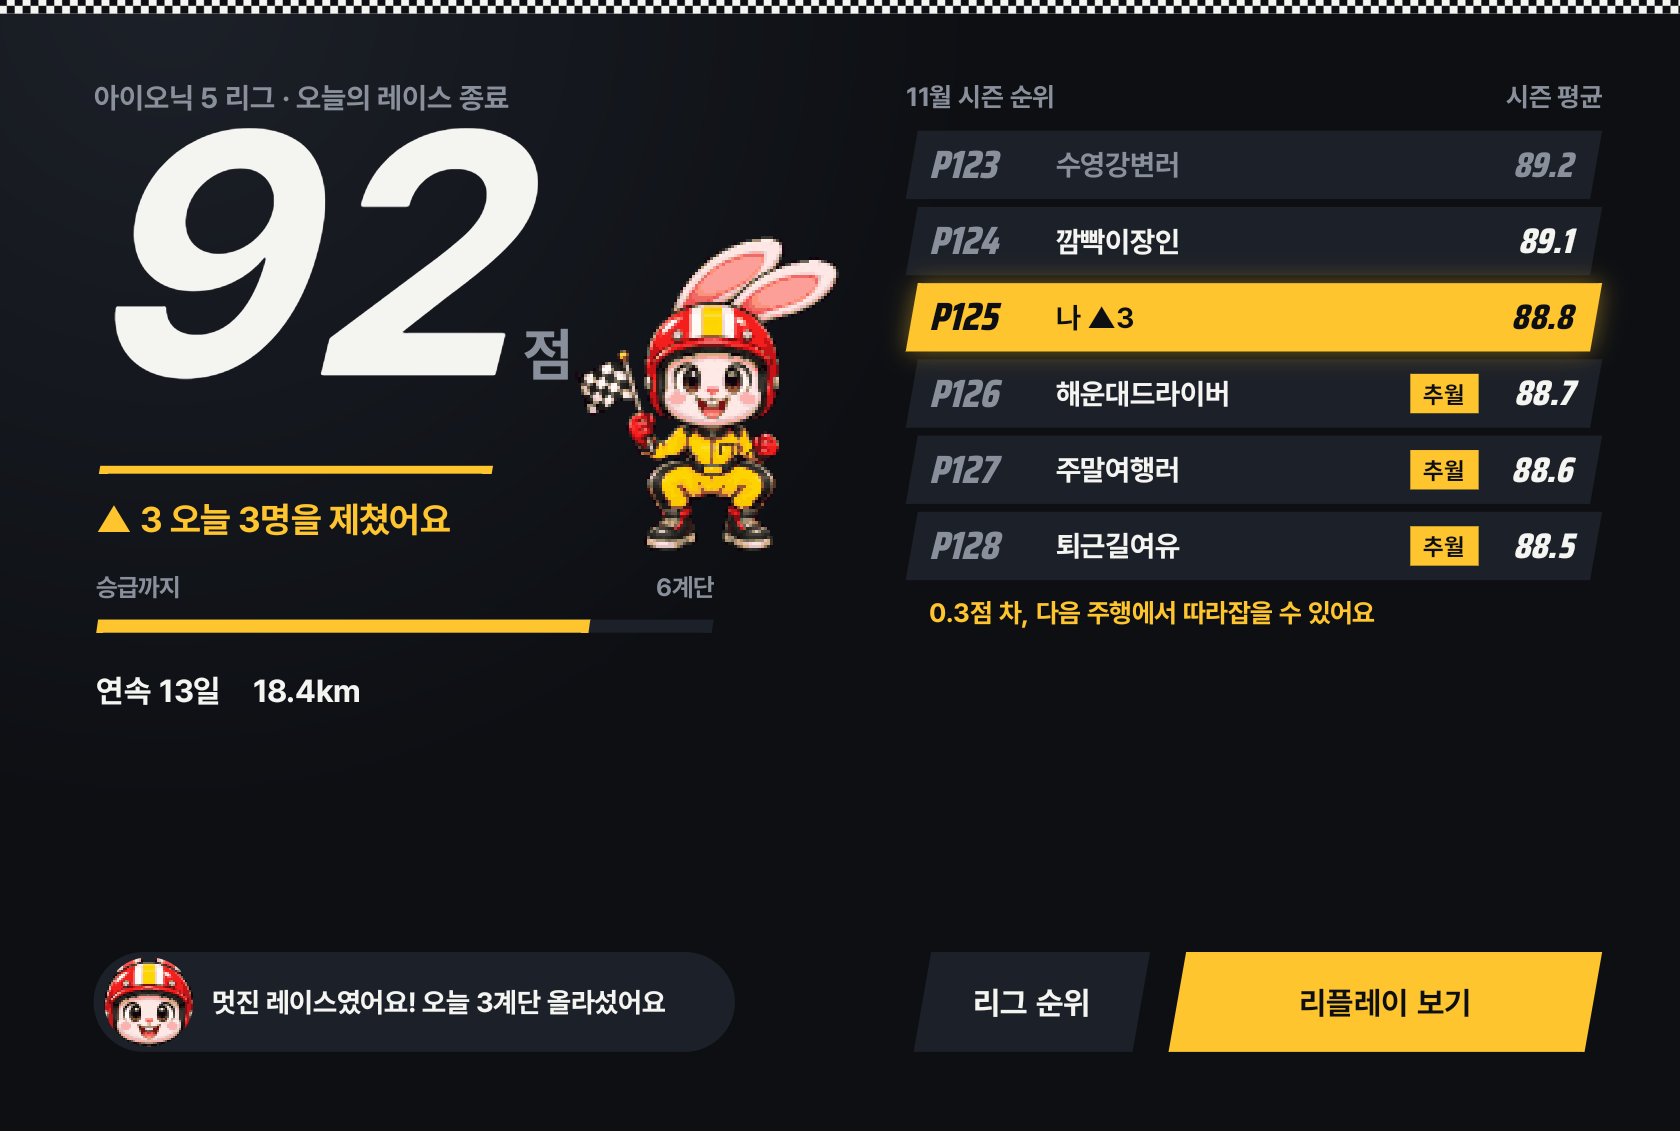
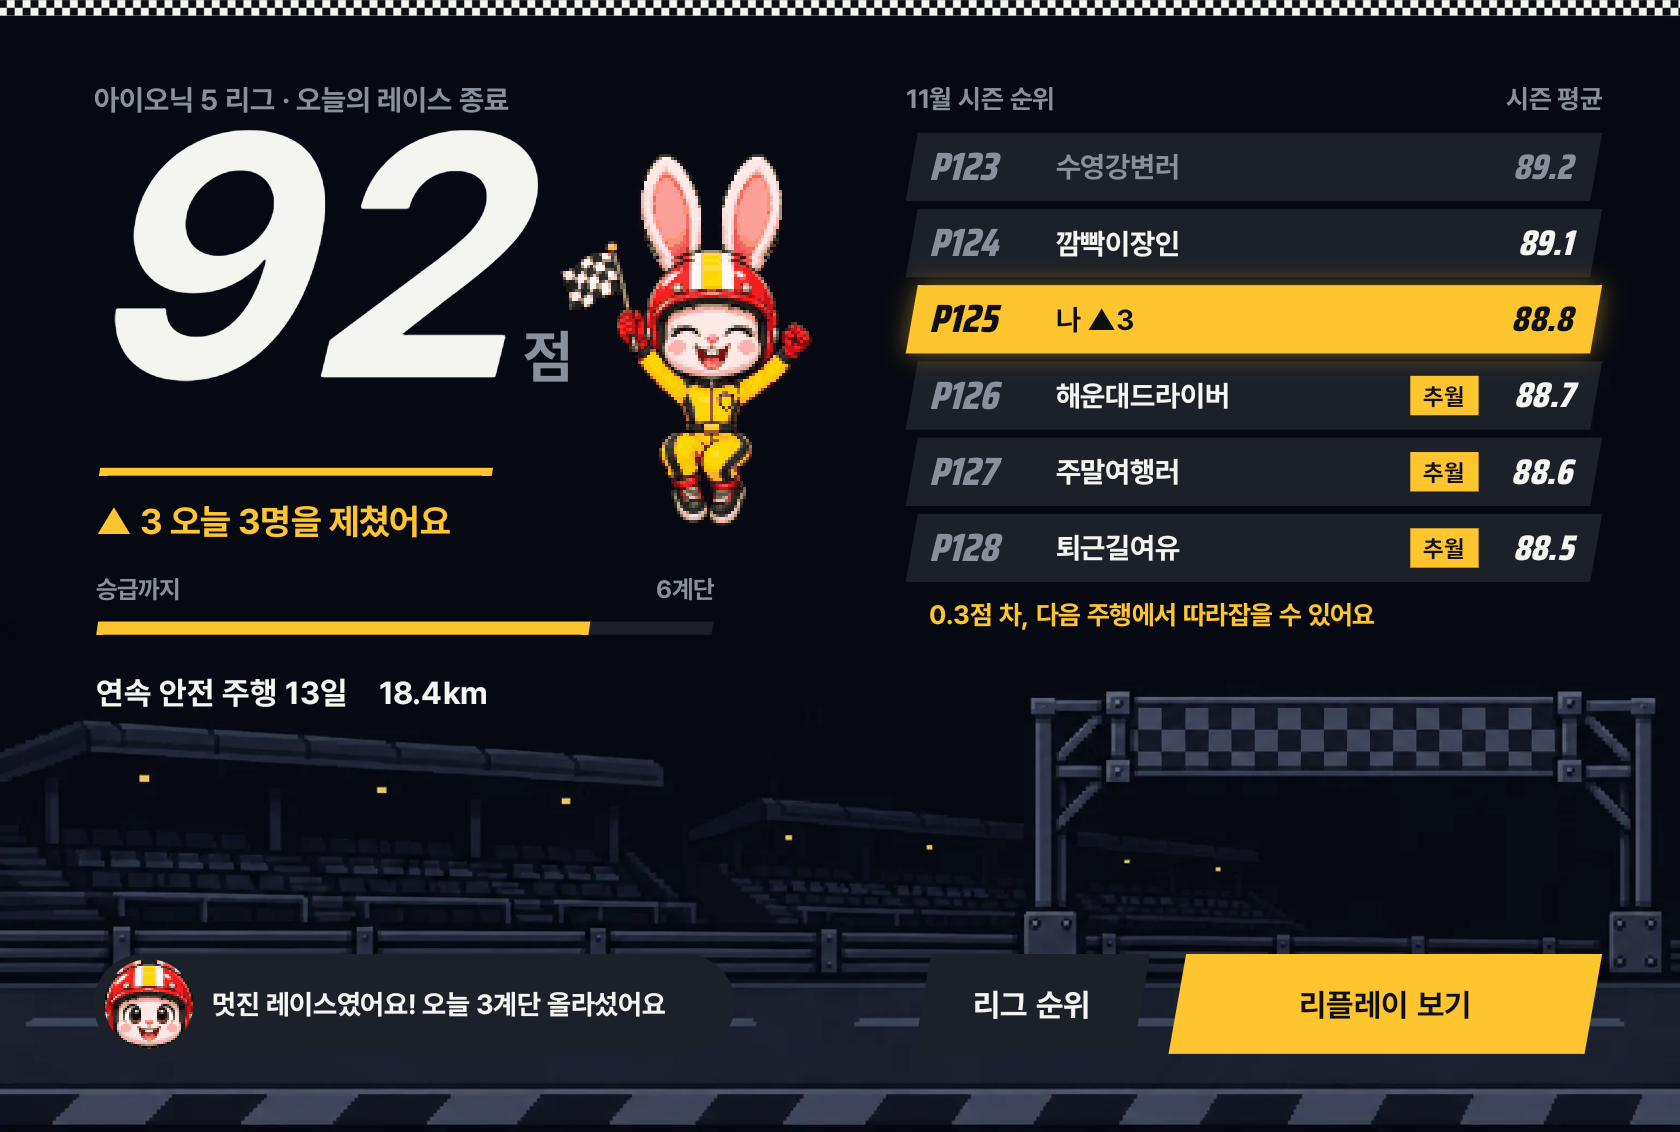
docs: 밤샘 개선 기록과 제출 시안 10장

diff --git a/docs/superpowers/plans/2026-11-08-overnight-polish.md b/docs/superpowers/plans/2026-11-08-overnight-polish.md
@@ -1,4 +1,4 @@
-# 밤샘 개선 계획 (2026-11-08)
+# 밤샘 개선 계획 (2026-11-08, 완료)
 
 사용자가 자는 동안 앱을 검토하고 고치며, 남은 기능을 차례로 추가한다.
 
